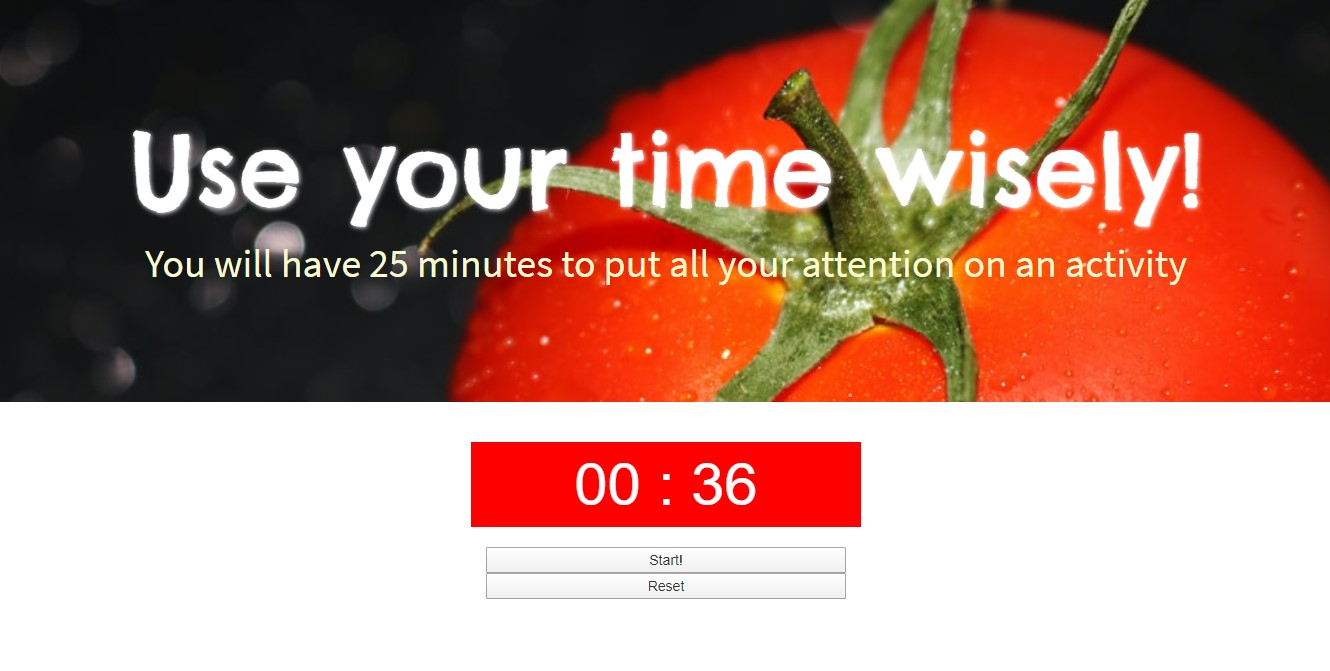
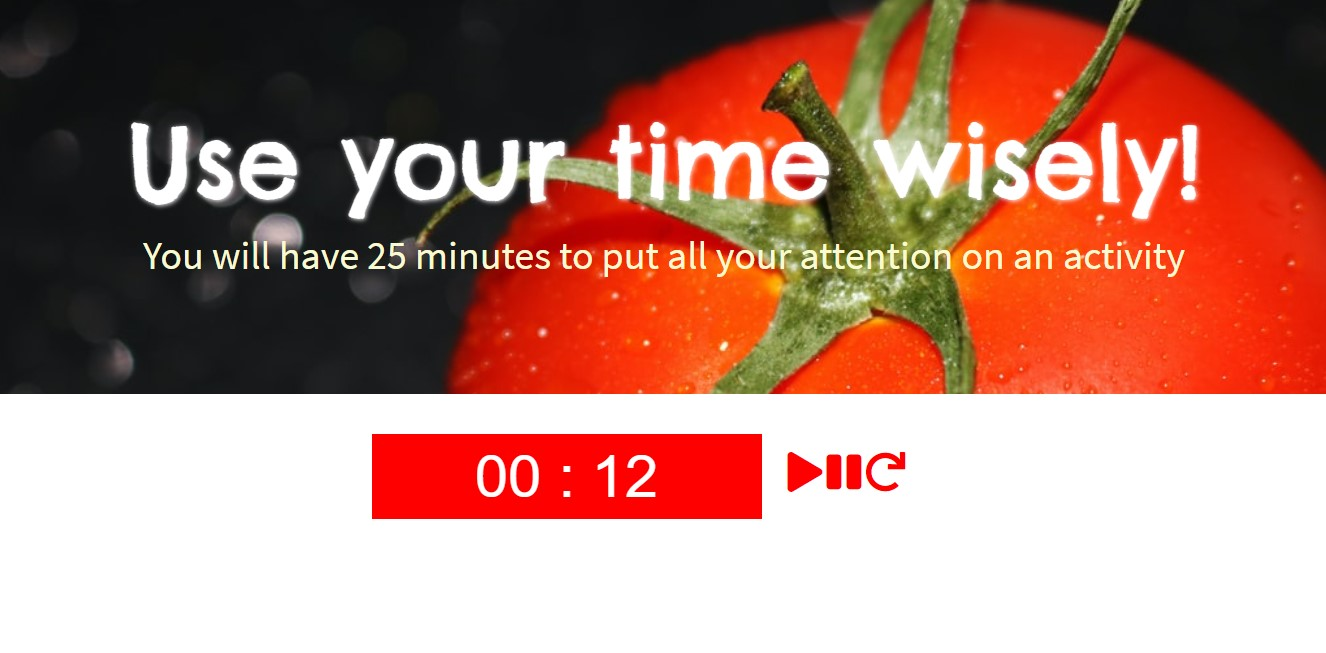
Layout updated. Function stop add.

diff --git a/index.html b/index.html
@@ -26,23 +26,23 @@
         <div class="container">
             <br /><br />
             <div class="row">
-                <div class="col-md-4"></div>
+                <div class="col-md-3"></div>
                 <div class="col-md-4 text-center" style="background:red;">
                 <p style="color:#fff; font-size: 45pt; margin-bottom: 0px;">
                     <span id="timerMinutes">00</span> : 
                     <span id="timerSeconds">00</span>
                 </p>
                 </div>
-            </div>
-            <div class="row">
-                <div class="col-md-4"></div>
-                <div class="col-md-4">
-                    <br />
-                    <button id="btnStart" onclick="startChrono();"
-                        style="width: 100%;">Start!</button>
-                    <button id="btnReset" onclick="resetChrono();"
-                        style="width: 100%;">Reset</button>
-                </div>
+                
+                <div class="btn">
+                    <div class="col-md-2 text-center"></div>
+                    <class="btn" class="list-inline margin-bottom: 2px;>
+                        <class="list-inline-item"><a onclick="startChrono();"><i class="fas fa-play"></i></a>
+                        <class="list-inline-item"><a onclick="stopChrono();"><i class="fas fa-pause"></i></a>
+                        <class="list-inline-item"><a onclick="resetChrono();"><i class="fas fa-redo"></i></a>
+                    
+                   
+                </div>  
             </div>
         </div>
     </section>
@@ -66,6 +66,10 @@
             else if(minutes <= 25) { seconds = 0; minutes += 1;}
             else {alert("Time for a break!");}
          }, 1000);
+    }
+
+    function stopChrono(){
+        
     }
 
     function resetChrono(){

diff --git a/style.css b/style.css
@@ -4,8 +4,6 @@
     background-size: cover;
     padding: 100px;
     color: white;
-    
-    
 }
 
 #banner h1{
@@ -15,7 +13,7 @@
     font-weight: lighter;
     font-size: 100px;
     text-shadow: 1px 1px 5px white;
-  }
+}
 
 #banner p{
     color: lightgoldenrodyellow;
@@ -23,4 +21,25 @@
     text-align: center;
     font-size: 40px;
 }
+
+
+.btn{
+    padding: 0px;
+    padding-top: 10px;
+    background: white;
+    color: white;
+    text-align: center;
+}
+
+.btn a{
+    color: red;
+    font-size: 40px;
+}
+.btn a:hover{
+    color: gray;
+   
+}
+
+
+
 
